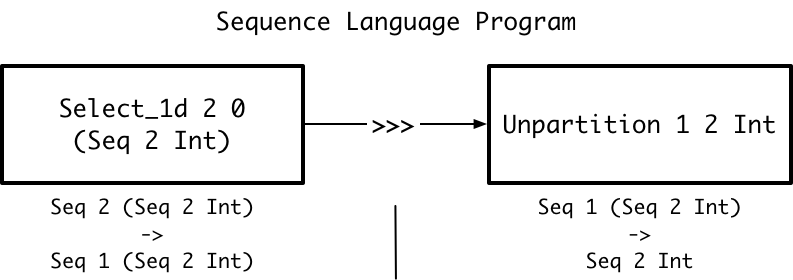
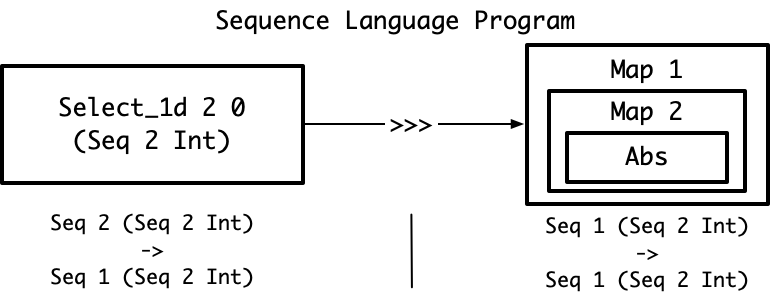
added recursive scheduling examples, added final scheduler

diff --git a/theory/Scheduling.md b/theory/Scheduling.md
@@ -108,16 +108,15 @@ The [naive scheduler examples](#naive_scheduler_examples) show that this attempt
 
 
 # Naive Scheduler Examples
-There are five main issues that the scheduler will have to handle:
+The below examples show four issues that the scheduler will have to handle:
 1. **Individual Operator Rewrites** - scheduling individual, sequence operators by rewriting them to space-time operators with the desired throughput
 1. **Composition** - scheduling composed operators so that the produced space-time operators have matching type signatures 
 1. **Multi-Rate** - scheduling operators that accept and emit different numbers of outputs, such as `Up_1d` and `Down_1d`
-1. **Nesting Manipulation** - scheduling operators that change that change the nesting of `Seq`s, such as `Partition` and `Unpartition`
-1. **Composition of Multi-Rate and Nesting Manipulation** - scheduling both types of operators. This is the example that the naive scheduler cannot handle.
+1. **Composition of Multi-Rate and Nesting Manipulation** - scheduling the composition of nested and multi-rate operators. This is the example that the naive scheduler cannot handle.
 
 ## Individual Operator Rewrites
 This example shows the simplest pipeline that can be scheduled.
-The example sequence language program is:
+The sequence language program is:
 ```
 Map 4 Abs
 ```
@@ -155,7 +154,7 @@ This throughput is two times smaller than the throughput of the `s=1` program wi
 
 ## Composition
 This example demonstrates the issue of rewriting composed operators while preserving the fact that all producers and consumers have matching type signatures.
-The example sequence language program is:
+The sequence language program is:
 ```
 Map 4 Abs >>> Map 4 Abs
 ```
@@ -176,7 +175,7 @@ The naive scheduler correctly handles this case for the same reasons as the [ind
 
 ## Multi-Rate
 This example demonstrates the issue of rewriting operators with different input and output invalid clocks and thus throughputs.
-The example sequence language program is:
+The sequence language program is:
 ```
 Select_1d 4 0 Int
 ```
@@ -196,53 +195,31 @@ The throughputs for this program are four `Int` inputs per two clocks and one `I
 
 ![Scheduled s=2 Multi-Rate](other_diagrams/scheduler_examples/multi_rate/multi_rate_st_s_2.png "Scheduled s=2 Multi-Rate")
 
-## Nesting Manipulation
-This example demonstrate the issue of rewriting operators where there are different amounts of nesting on the input and output.
-The example sequence language program is:
+## Composition of Multi-Rate and Nesting
+This example demonstrates the issue of scheduling multi-rate and nested operators while ensuring that their types compose after applying the rewrite rules.
+The naive scheduler cannot handle this example
+The sequence language program is:
 ```
-Unpartition 2 2 Int
-```
-
-Attainable s are `1, 2, 4`.
-The following diagrams shows the process of applying the naive scheduler.
-The first diagram is the program in the sequence language AST.
-
-![Unscheduled Nesting Manipulation](other_diagrams/scheduler_examples/nesting/nesting_seq.png "Unscheduled Nesting Manipulation")
-
-The second diagram is the program in the space-time IR AST after scheduling with `s=2`
-The naive scheduler has applied the sequence\_to\_nested\_time\_space rewrite rule.
-The result is an operator that does nothing.
-The sequence\_to\_nested\_time\_space rewrite rule normally converts an operator so that its input and output are nested with an outer `TSeq`s and inner `SSeq`. 
-Since the `Unpartition` has a nested input, the rewritten operator just propagates its inputs.
-The naive scheduler correctly handles this case for the same reasons as the [individual operator rewrites example.](#individual-operator-rewrites)
-
-![Scheduled s=2 Nesting Manipulation](other_diagrams/scheduler_examples/nesting/nesting_st_s_2.png "Scheduled s=2 Nesting Manipulation")
-
-## Composition of Multi-Rate and Nesting Manipulation
-This example demonstrates the issue of scheduling both types of operators while ensuring that their types compose after applying the rewrite rules.
-This is the example that the naive scheduler cannot handle.
-The example sequence language program is:
-```
-Select_1d 2 0 (Seq 2 Int) >>> Unpartition 1 2 Int 
+Select_1d 2 0 (Seq 2 Int) >>> Map 1 (Map 2 Abs)
 ```
 
 Attainable s are `1, 2, 4`.
 The following diagrams shows the process of applying the naive scheduler.
 The first diagram is the program in the sequence language AST.
 
-![Unscheduled Composition Of Multi-Rate and Nesting Manipulation](other_diagrams/scheduler_examples/nesting_multi_composition/nesting_multi_composition_seq.png "Unscheduled Composition Of Multi-Rate and Nesting Manipulation")
+![Unscheduled Composition Of Multi-Rate and Nesting](other_diagrams/scheduler_examples/nesting_multi_composition/nesting_multi_composition_seq.png "Unscheduled Composition Of Multi-Rate and Nesting")
 
 The second diagram is the program in the space-time IR AST after scheduling with `s=2`
 The naive scheduler has applied the sequence\_to\_time rewrite rule to `Select_1d 2 0 (Seq 2 Int)` while converting its `Seq 2 Int` to an `SSeq 2 Int`.
 This produces a `Select_1d_t 2 0 0 (SSeq 2 Int)` with a throughput that is two times less than the throughput of the fully parallel `Select_1d_s 2 0 (SSeq 2 Int)`
-The naive scheduler has applied the sequence\_to\_time rewrite rule to `Unpartition 1 2 Int`, producing a `Unpartition_t_tt 1 2 0 0 Int`.
-This operator has a throughput that is two times less than the throughput of the fully parallel `Unpartition_s_ss 1 2 Int`.
+The naive scheduler has applied the sequence\_to\_time rewrite rule to both `Map` in `Map 1 (Map 2 Abs)`, producing a `Map_t 1 0 (Map_t 2 0 Abs)`.
+This operator has a throughput that is two times less than the throughput of the fully parallel `Map_s 1 (Map_s 2 Abs)`.
 However, the operators' types don't match and the produced hardware cannot be composed.
 The `Select_1d_t` has an output of two `Int` every other clock. 
-The `Unparititon_t_tt` is expecting an `Int` input every clock.
+The `Map_t 1 0 (Map_t 2 0 Abs)` has an input of an `Int` input every clock.
 Thus, the naive scheduler has failed to produce valid hardware.
 
-![Scheduled Composition Of Multi-Rate and Nesting Manipulation](other_diagrams/scheduler_examples/nesting_multi_composition/nesting_multi_composition_st_s_2.png "Scheduled Composition Of Multi-Rate and Nesting Manipulation")
+![Scheduled Composition Of Multi-Rate and Nesting](other_diagrams/scheduler_examples/nesting_multi_composition/nesting_multi_composition_st_s_2.png "Scheduled Composition Of Multi-Rate and Nesting")
 
 # Recursive Scheduling Algorithm
 The next attempt at a scheduling algorithm addresses the composition of multi-rate and nesting manipulation example by considering dependencies between composed operators.
@@ -257,7 +234,7 @@ schedule pseq pspace ptime s =
     n_out_st_input_types = get_input_types n_out_st
     n_out_producers = get_producers n_out
     set_producers n_out_st 
-        [schedule_op n_out_producers[i] n_out_st_input_types[i] | i < for i in 0..len(n_out_producers)]
+        [schedule_op n_out_producers[i] n_out_st_input_types[i] | i <- 0..len(n_out_producers)]
     return n_out_st
 
 schedule_op :: Seq_Expr -> Space_Time_Type -> Space_Time_Expr
@@ -266,7 +243,7 @@ schedule_op n consumer_type =
     n_st_input_types = get_input_types n_st
     n_producers = get_producers n
     set_producers n_st 
-        [schedule_op n_producers[i] n_st_input_types[i] | i < for i in 0..len(n_producers)]
+        [schedule_op n_producers[i] n_st_input_types[i] | i <- 0..len(n_producers)]
     return n_st
 ```
 
@@ -278,37 +255,95 @@ Second, it only evaluates one of multiple possible schedules for a given **s** a
 For example, there are multiple possible ways to rewrite an operator to match a slowdown.
 `rewrite_with_slowdown` arbitrarily picks one.
 The recursive, DAG-aware scheduler will address both of these issues.
-Additionally, there are multiple ways to
-There are fewer 
-1. Given: 
-    1. `pseq` - the program in the sequence language
-    1. `pspace` - the program in the space-time IR with the greatest throughput
-    1. `ptime` - he program in the space-time IR that is the greatest throughput of the minimum area programs
-    1. `s` - the slowdown factor
-1. Compute a space-time IR output type for `pseq` that is `s` times slower than the output type of `pspace`. 
-1. Rewrite the `pseq` AST to produce the computed output type using the following visitor pattern. 
-The first node to visit is the last node in the `pseq` AST.
-   1. Rewrite the current operator `op_cur` to match it's slowed output type.
-   1. Compute `op_cur`'s input type after rewriting
-   1. Recur on all operators that produce input for `op_cur`.
-   The output types for those operators are the input types to `op_cur`.
-
-The code for the scheduler is:
-```
-schedule :: Seq_Expr -> Space_Time_Expr -> Space_Time_Expr -> Int -> Space_Time_Expr
-schedule pseq pspace ptime s =
-    ot_slowed = compute_slowed_output_type pseq ptime s
-    return (rewrite_to_match_output_type pseq ot_slowed)
-```
 
 # Recursive Scheduler Examples
 
 ## Composition of Multi-Rate and Nesting Manipulation
 This example demonstrates the issue of scheduling both types of operators while ensuring that their types compose after applying the rewrite rules.
 Unlike the naive scheduler, the recursive scheduler can handle this example.
-The example sequence language program is:
+The sequence program is:
 ```
-Select_1d 2 0 (Seq 2 Int) >>> Unpartition 1 2 Int 
+Select_1d 2 0 (Seq 2 Int) >>> Map 1 (Map 2 Abs)
+```
+
+The result from scheduling with the recursive algorithm is:
+
+![Scheduled Composition Of Multi-Rate and Nesting Recursive Algorithm](other_diagrams/scheduler_examples/nesting_multi_composition/nesting_multi_composition_st_s_2_recursive.png "Scheduled Composition Of Multi-Rate and Nesting Recursive Algorithm")
+
+The recursive scheduler first applies `rewrite_with_slowdown` to `Map 1 (Map 2 Abs)`, the output node of the program.
+This will try to slowdown the node without introducing invalids, so it produces `Map_s 1 (Map_t 2 0 Abs)`.
+`rewrite_with_slowdown` knows that slowing down the outer `Map 1` would require introducing invalids because `ptime` shows that the result of performing this slowdown is `Map_t 1 1`.
+Then, the algorithm applies `rewrite_with_output_type` to `Select_1d 2 0 (Seq 2 Int)` with output type `SSeq 1 (TSeq 2 0 Int)`.
+The result is `Select_1d_s 2 0 (TSeq 2 0 Int)`.
+The `Select_1d_s` has an output of an `Int` every clock.
+The `Map_s` has an input of an `Int` every clock.
+Thus, the recursive scheduler has produced valid hardware where the naive one failed.
+
+## Diamond
+This example demonstrates the issue of scheduling a DAG with a diamond pattern: the input is used on two separate branches which are later merged.
+The recursive scheduler cannot handle this example.
+The sequence language program is:
+```
+diamond input =
+    let prefix = Map 1 (Map 1 Abs) input
+    let branch1 = (Up_1d 2 (Seq 1 Int) >>> Unpartition 2 1 Int) prefix
+    let branch2 = (Map 1 (Up_1d 2 Int) >>> Unpartition 1 2 Int) prefix
+    Map2 2 Tuple branch1 branch2
+```
+
+Attainable s are `1, 2, 4`.
+The following diagrams shows the process of applying the naive scheduler.
+The first diagram is the program in the sequence language AST.
+
+![Unscheduled Diamond](other_diagrams/scheduler_examples/diamond/diamond_seq.png "Unscheduled Diamond")
+
+The second diagram is the program in the space-time IR AST after scheduling with `s=2`
+The recursive scheduler has scheduled each branch independently. 
+For each branch, `rewrite_with_output_type` slows the `Up_1d` because that minimizes underutilization. 
+As a result, `branch1` wants to rewrite `prefix` to `Map_t 1 1 (Map_s 1 Abs)` while `branch2` wants to rewrite prefix to `Map_s 1 (Map_t 1 1 Abs)`.
+This is invalid hardware as `prefix` can only be one implementation.
+
+![Scheduled Diamond](other_diagrams/scheduler_examples/diamond/diamond_st_s_2.png "Scheduled Diamond")
+
+
+# Recursive, Memoized, Branching Scheduling Algorithm
+The final scheduling algorithm addresses the diamond issue while also exploring multiple schedules.
+It performs the same walk of the expression tree as the above, recursive scheduling algorithm.
+However, it memoizes the calls to `schedule_op`.
+Therefore, if a node is scheduled once in one part of the expression tree, it will not be scheduled different in a different part of the expression tree.
+As a result, `schdule_op` will need to handle the case where a recursive call to `schedule_op` does not return a producer with the expected type.
+In this case, `Reshape`s are added where necessary to fix types.
+`Reshape`s are also used to explore multiple possible schedules.
+For each stage in the expression tree, rather than rewriting an operator to match the consumer's type, the operator may produce any other type of the same throuhgput and apply a `Reshape` to convert between the two.
+The `schedule_op` explores all such schedules by returning a list of Space_Time_Expr.
+Each element in the list is a different `Reshape`.
+The scheduling algorithm is:
+```
+schedule :: Seq_Expr -> Space_Time_Expr -> Space_Time_Expr -> Int -> Space_Time_Expr
+schedule pseq pspace ptime s =
+    n_out = get_output_node pseq
+    n_out_st_xs = rewrite_with_slowdown n_out pspace ptime s
+    n_out_st_input_type_xss = map get_input_types n_out_st_xs
+    n_out_producer_xs = get_producers n_out
+    n_out_st_producer_xss_maybe_wrong_type =
+        [[memo schedule_op n_out_producer_xs[j] n_out_st_input_types_xss[i][j] | j <- 0..len(n_out_producers)] 
+           | i <- 0..len(n_out_st_xs) ]
+    n_out_st_producers_xss = map2 (map2 (add_reshape_to_match)) n_out_st_producers_xss_maybe_wrong_type n_out_st_input_type_xss
+    map2 set_producers n_out_st_xs n_out_st_input_type_xss
+    return n_out_st_xs
+
+schedule_op :: Seq_Expr -> Space_Time_Type -> [Space_Time_Expr]
+schedule_op n consumer_type =
+    (reshapes, producer_types) = generate_all_possible_reshapes consumer_type
+    n_st_xs = map2 (rewrite_with_output_type n) producer_types reshapes
+    n_st_input_type_xss = map get_input_types n_st_xs
+    n_producer_xs = get_producers n
+    n_st_producer_xss_maybe_wrong_type =
+        [[memo schedule_op n_producer_xs[j] n_st_input_types_xss[i][j] | j <- 0..len(n_producers)] 
+           | i <- 0..len(n_st_xs) ]
+    n_st_producers_xss = map2 (map2 (add_reshape_to_match)) n_st_producers_xss_maybe_wrong_type n_st_input_type_xss
+    map2 set_producers n_st_xs n_st_input_type_xss
+    return n_st_xs
 ```
 
 ## Slowed Output Type Computation
@@ -883,7 +918,32 @@ The pattern of isomorphism construction is the same as above.
 
 ## Operator Rewrite Process
 1. Given a rewritten output type
+
 # Garbage
+
+## Nesting Manipulation
+This example demonstrate the issue of rewriting operators where there are different amounts of nesting on the input and output.
+The example sequence language program is:
+```
+Unpartition 2 2 Int
+```
+
+Attainable s are `1, 2, 4`.
+The following diagrams shows the process of applying the naive scheduler.
+The first diagram is the program in the sequence language AST.
+
+![Unscheduled Nesting Manipulation](other_diagrams/scheduler_examples/nesting/nesting_seq.png "Unscheduled Nesting Manipulation")
+
+The second diagram is the program in the space-time IR AST after scheduling with `s=2`
+The naive scheduler has applied the sequence\_to\_nested\_time\_space rewrite rule.
+The result is an operator that does nothing.
+The sequence\_to\_nested\_time\_space rewrite rule normally converts an operator so that its input and output are nested with an outer `TSeq`s and inner `SSeq`. 
+Since the `Unpartition` has a nested input, the rewritten operator just propagates its inputs.
+The naive scheduler correctly handles this case for the same reasons as the [individual operator rewrites example.](#individual-operator-rewrites)
+
+![Scheduled s=2 Nesting Manipulation](other_diagrams/scheduler_examples/nesting/nesting_st_s_2.png "Scheduled s=2 Nesting Manipulation")
+
+
 ## Composition of Multi-Rate With Nested Operators and Memories
 This example demonstrates the issue of scheduling multiple operators while preserving nesting and using memories.
 ```
